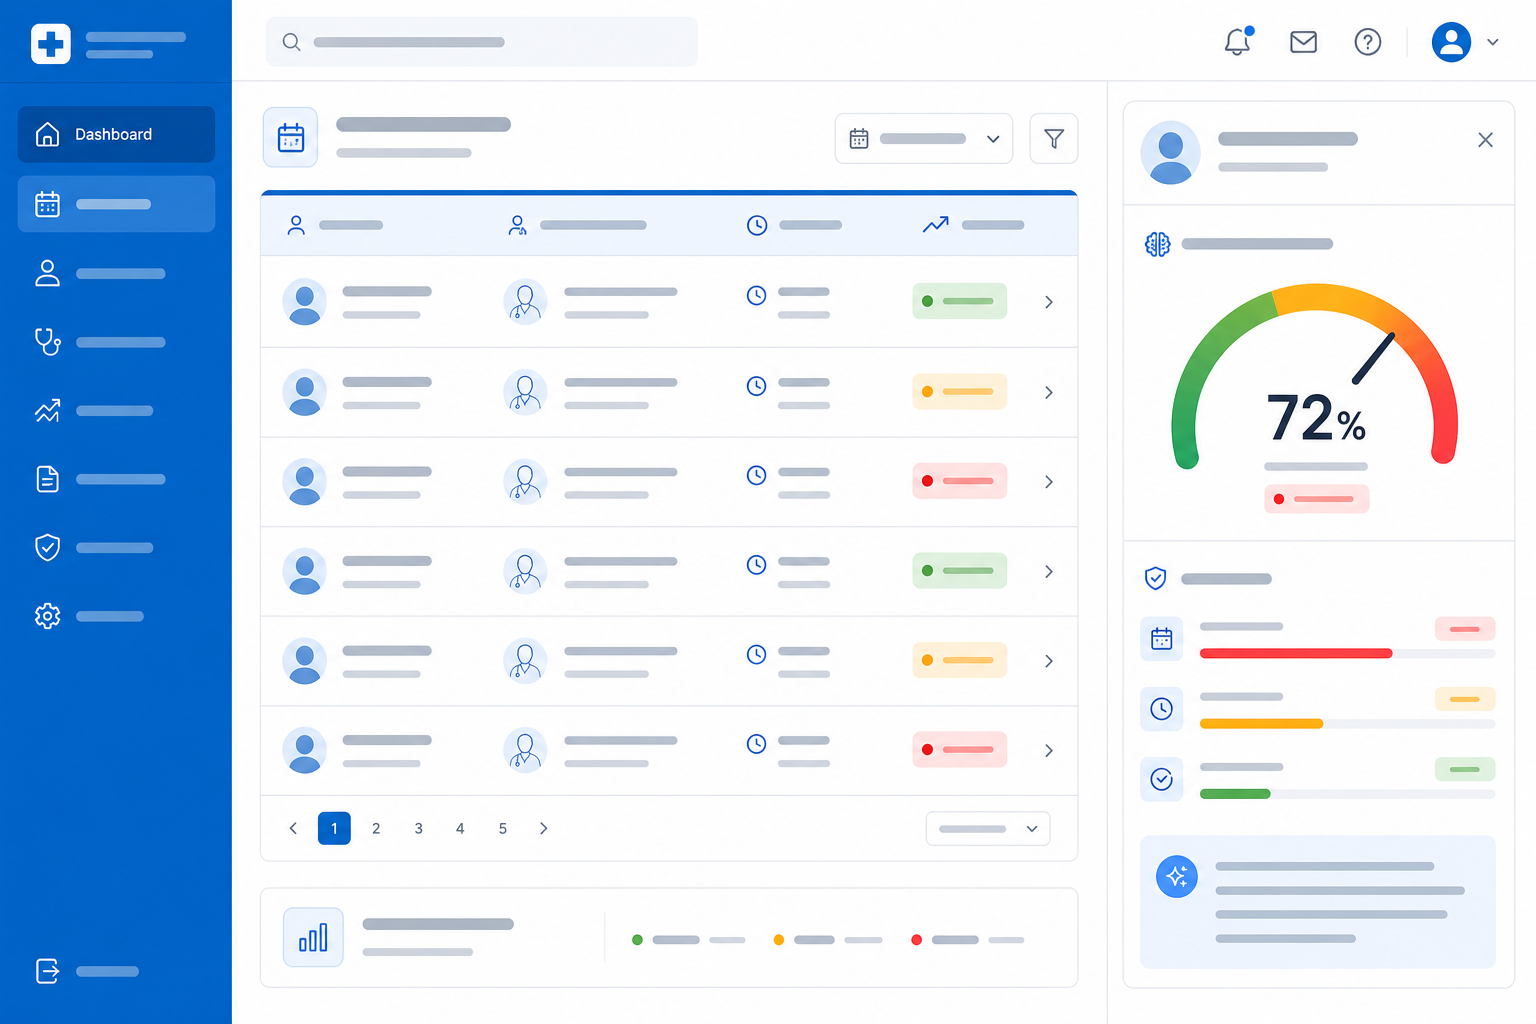
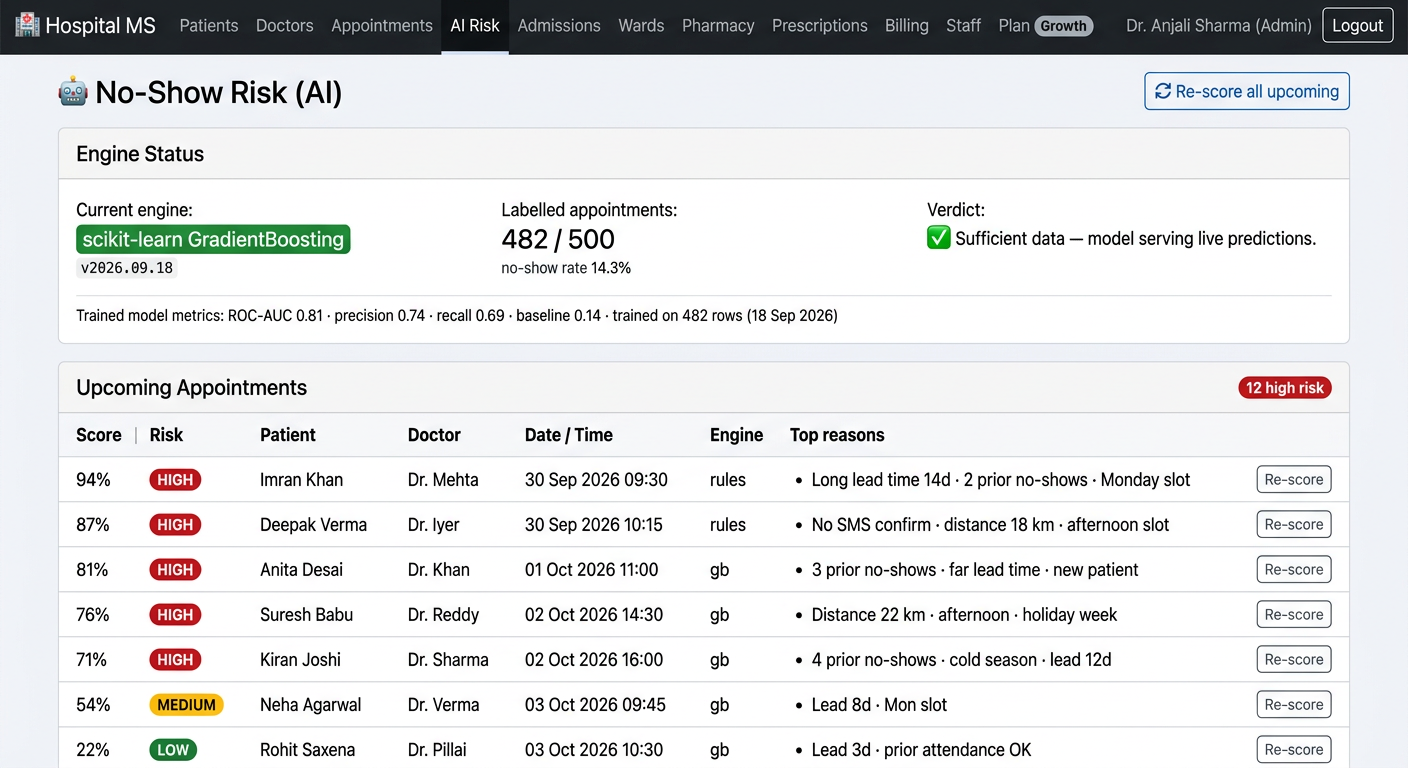
docs: data-rich real-UI product screenshots

diff --git a/README.md b/README.md
@@ -65,15 +65,24 @@ Django 6 + PostgreSQL + Redis + Celery + scikit-learn. With a REST API
 
 ## Product screenshots
 
-> Illustrative screenshots of the product UI.
+> Screenshots of the real product UI, rendered with representative sample data
+> (Indian names, `PAT-2026-XXXX` patient IDs, ₹ amounts). Layouts and styling
+> match the Django/Bootstrap templates in `templates/`.
 
-**Dashboard overview** — today's appointments, occupancy, revenue and billing at
-a glance:
+**Dashboard overview** — admin home with KPI stat cards, 7-day revenue line
+chart, bed-occupancy doughnut, today's appointments table, and a High Risk
+Appointments (AI No-Show) panel:
 
 ![Dashboard overview](docs/images/dashboard-overview.png)
 
-**AI no-show risk** — every appointment scored 0–1 with human-readable reasons,
-so reception can confirm high-risk bookings in advance:
+**Patients list** — searchable patient directory with `PAT-2026-XXXX` IDs,
+demographics and blood group:
+
+![Patients list](docs/images/patients-list.png)
+
+**AI no-show risk** — every upcoming appointment scored 0–1 by the
+`ml_engine` (rules → GradientBoosting), with HIGH/MEDIUM/LOW risk badges and
+human-readable reasons for reception to act on:
 
 ![AI no-show risk dashboard](docs/images/dashboard-ai-risk.png)
 
